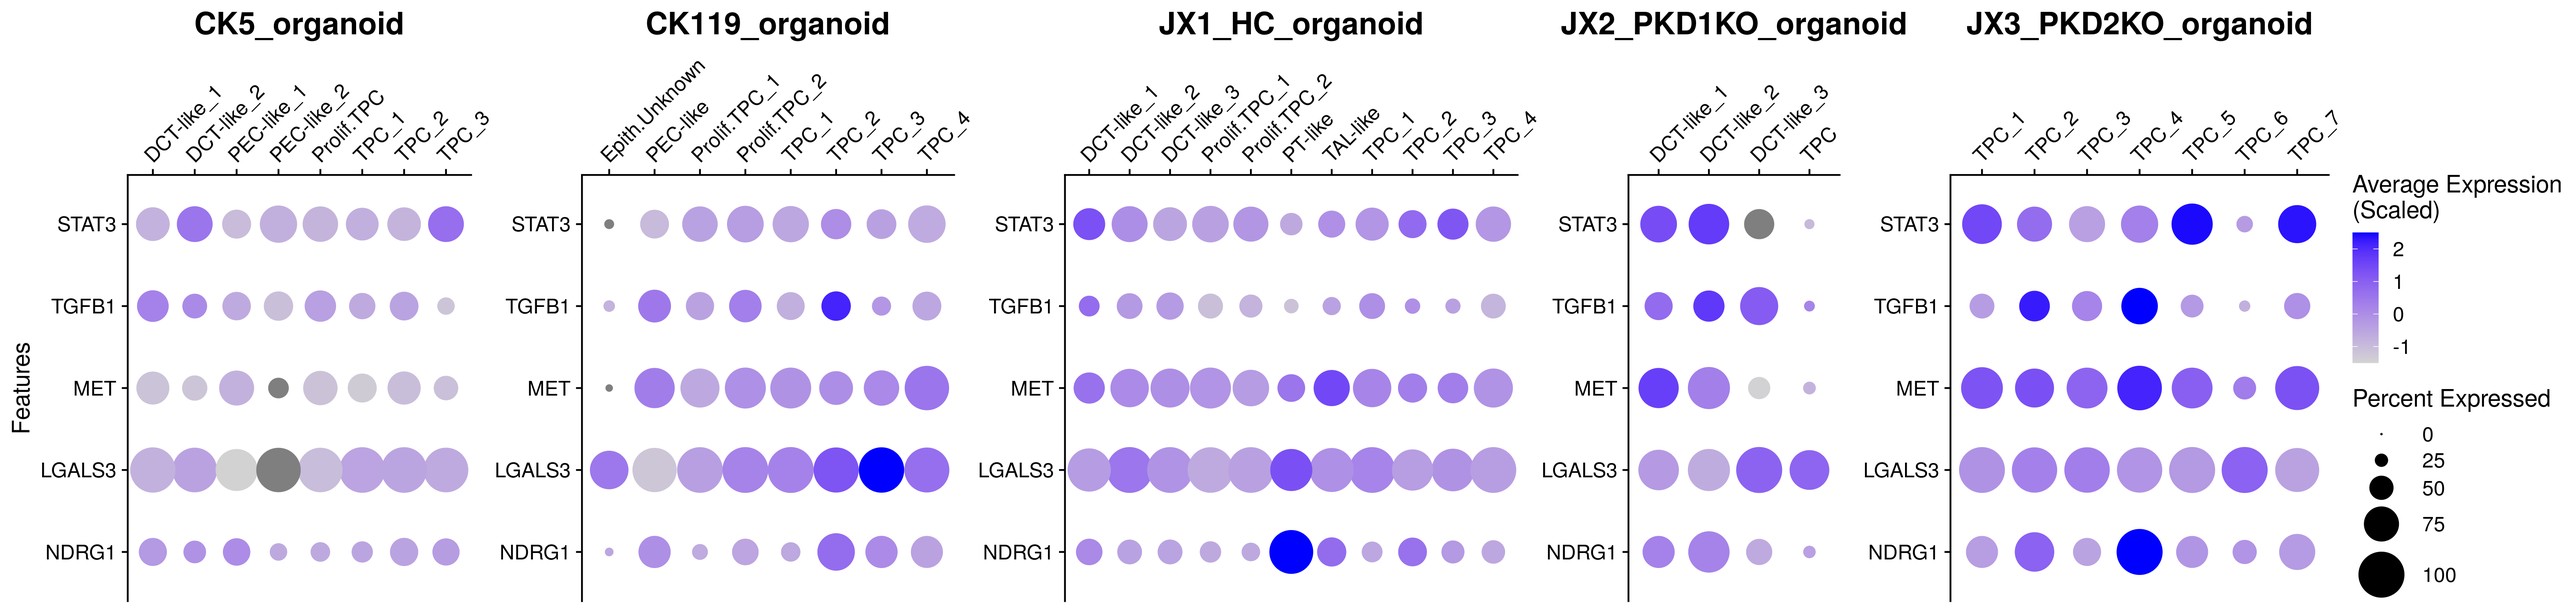
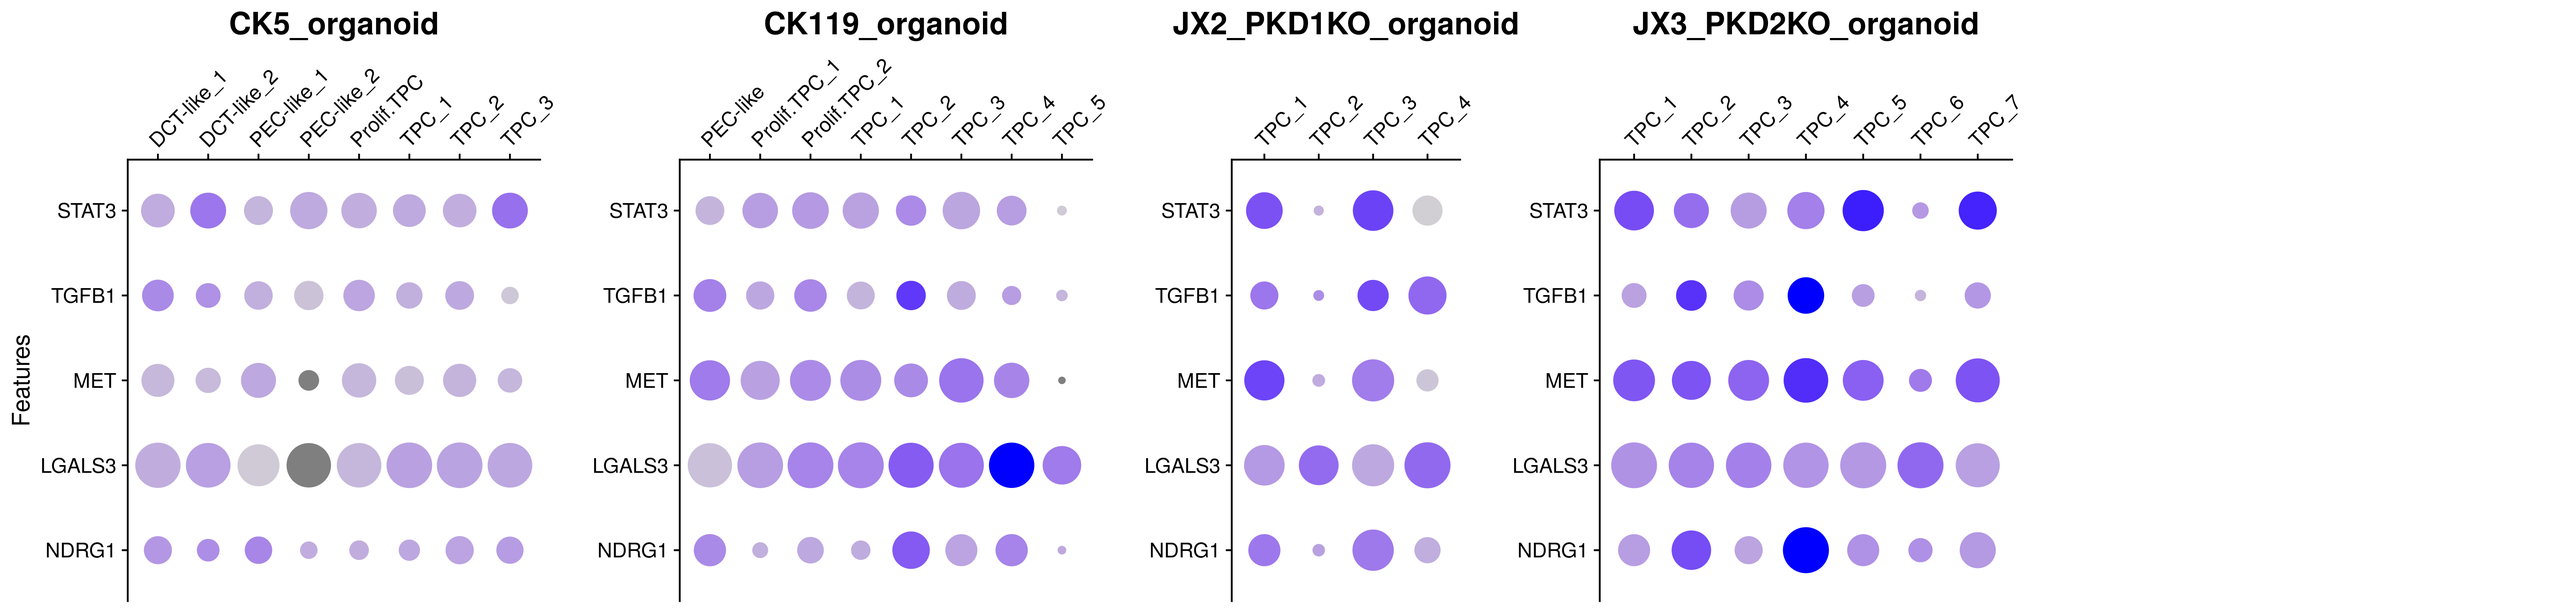
Generate Dotplot of markers in organoids

diff --git a/Merged_analysis/PKDmarkers_organoids.md b/Merged_analysis/PKDmarkers_organoids.md
@@ -57,8 +57,6 @@ S <- merge(SL[[1]], SL[-1])
     ## are duplicated across objects provided. Renaming to enforce unique cell
     ## names.
 
-## Heatmap
-
 ``` r
 cols <- readRDS(file="./output/color_scheme.rds")
 ```
@@ -67,6 +65,55 @@ cols <- readRDS(file="./output/color_scheme.rds")
 # Curated list of PKD markers from literature
 genes <- c("STAT3", "TGFB1", "MET", "LGALS3", "NDRG1")
 ```
+
+## DotPlot
+
+``` r
+plots <- DotPlot_panel(subset(S, orig.ident %in% c("CK5_organoid", "CK119_organoid", 
+                           "JX2_PKD1KO_organoid", "JX3_PKD2KO_organoid")), 
+                  assay = "RNA",
+                       intersect(genes, rownames(S)), 
+               dot.scale = 12,
+              scale.min = 0, scale.max = 100, col.min = -2.5, col.max = 2.5)
+
+# Common scale
+plots <- lapply(plots, function(gg) {
+  gg + coord_flip() + scale_y_discrete(position = "right") +
+    
+  # This is extremely important to use same scaling color for all samples
+  scale_color_gradient(low="lightgrey", high = "blue",limits=c(-1.5, 2.5)) +
+      
+  theme(axis.text.x = element_text(angle = 45, hjust = 0),
+        plot.title = element_text(size=18, hjust = 0.5))
+  })
+```
+
+    ## Scale for 'colour' is already present. Adding another scale for
+    ## 'colour', which will replace the existing scale.
+    ## Scale for 'colour' is already present. Adding another scale for
+    ## 'colour', which will replace the existing scale.
+    ## Scale for 'colour' is already present. Adding another scale for
+    ## 'colour', which will replace the existing scale.
+    ## Scale for 'colour' is already present. Adding another scale for
+    ## 'colour', which will replace the existing scale.
+
+``` r
+# Remove xlab
+plots <- lapply(plots, function(gg) gg + theme(axis.title.x = element_blank()))
+
+# Remove legend from the first three ones
+plots[1:4] <- lapply(plots[1:4], function(gg) gg + NoLegend())
+# Remove y axis title from the last three ones
+plots[-1] <- lapply(plots[-1], function(gg) gg + theme(axis.title.y = element_blank()))
+
+CombinePlots(plots,
+            rel_widths=c(6, 6, 4, 6),
+             ncol = 5)
+```
+
+![](./PKDmarkers_organoids//figures/dotplot_PKDmarkers_organoids-1.png)<!-- -->
+
+## Heatmap
 
 ``` r
 Sx<- S[intersect(rownames(S), genes), ]
